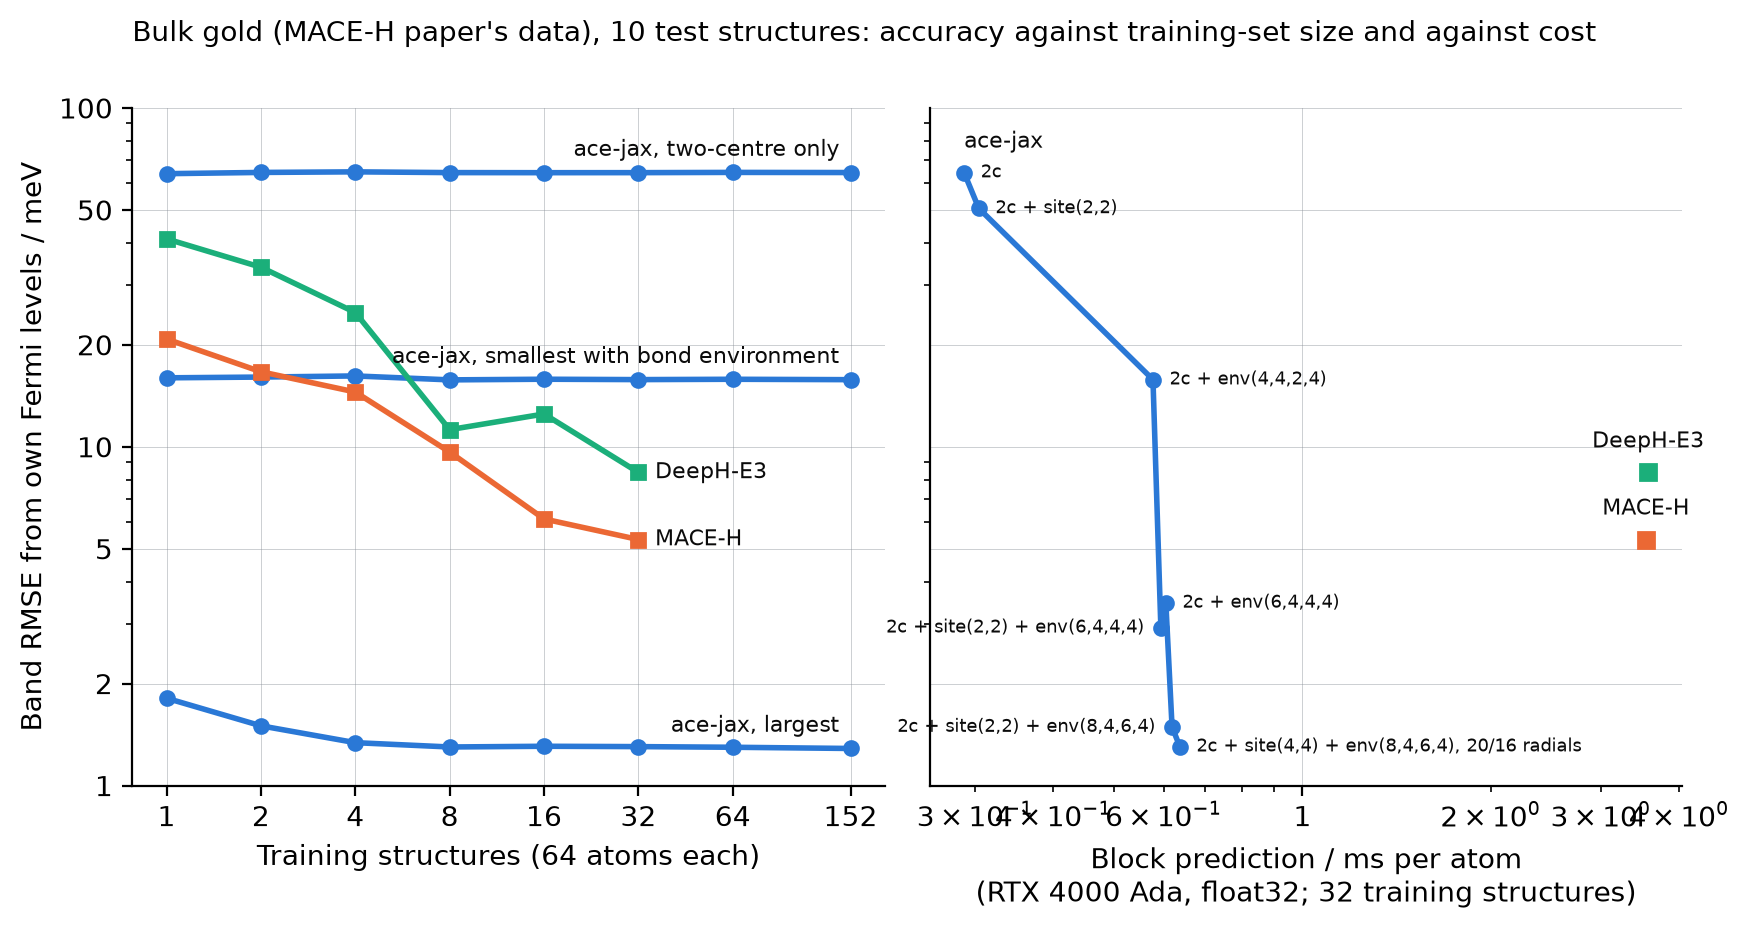
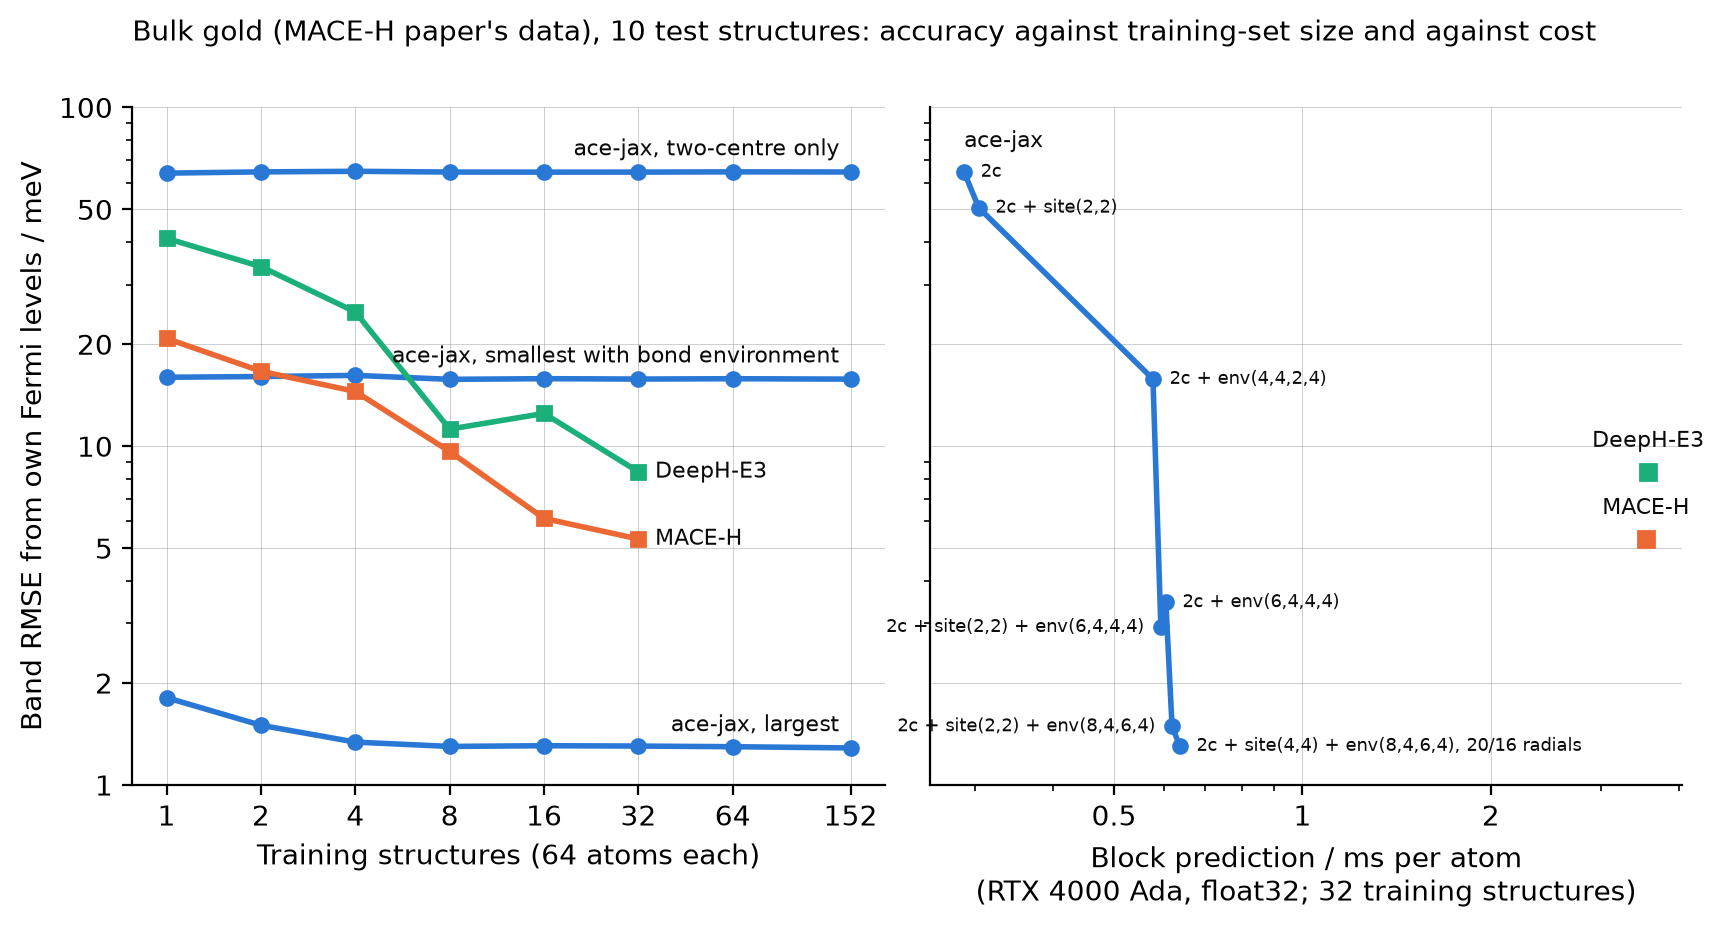
bench(ham): GPU versions of the gold Pareto and size-scaling figures (RTX 4000 Ada, float32)

diff --git a/bench/ham/size_plot.py b/bench/ham/size_plot.py
@@ -44,8 +44,8 @@ a.annotate("eigensolver, one k-point", (N[-1], eig[-1]), xytext=(7, 0), textcoor
 a.plot(N, bloch, color=BLOCH, lw=2, marker="s", ms=5)
 a.annotate("Bloch sums H(k), S(k)", (N[-1], bloch[-1]), xytext=(7, 0), textcoords="offset points", va="center", fontsize=8, color=INK)
 g = np.array([N[0], N[-1]], float)                       # guides through the first points: O(N) and O(N^3)
-a.plot(g, pred["ace-jax"][0] * g / g[0] * 0.5, color=MUTED, lw=0.8, ls=":"); a.annotate("∝ N", (g[1], pred["ace-jax"][0] * g[1] / g[0] * 0.5), xytext=(7, -8), textcoords="offset points", fontsize=7, color=MUTED)
-a.plot(g, eig[0] * (g / g[0]) ** 3 * 0.5, color=MUTED, lw=0.8, ls=":"); a.annotate("∝ N³", (g[1], eig[0] * (g[1] / g[0]) ** 3 * 0.5), xytext=(7, -10), textcoords="offset points", fontsize=7, color=MUTED)
+a.plot(g, pred["ace-jax"][0] * g / g[0] * 0.5, color=MUTED, lw=0.8, ls=":"); a.annotate("∝ N", (g[0], pred["ace-jax"][0] * 0.5), xytext=(4, -10), textcoords="offset points", fontsize=7, color=MUTED)
+a.plot(g, eig[0] * (g / g[0]) ** 3 * 0.5, color=MUTED, lw=0.8, ls=":"); a.annotate("∝ N³", (g[0], eig[0] * 0.5), xytext=(4, -10), textcoords="offset points", fontsize=7, color=MUTED)
 a.set_xscale("log", base=2); a.set_yscale("log"); a.set_xticks(N); a.set_xticklabels([str(n) for n in N])
 a.yaxis.set_major_formatter(FuncFormatter(lambda v, _: f"{v:g}"))
 a.set_xlim(N[0] * 0.85, N[-1] * 2.0); a.set_xlabel("Atoms (9 orbitals each)"); a.set_ylabel("Time per structure / s")

diff --git a/bench/ham/gold_pareto.py b/bench/ham/gold_pareto.py
@@ -78,6 +78,8 @@ b.set_xscale("log"); b.set_xlabel(f"Block prediction / ms per atom\n({T.get('mac
 from matplotlib.ticker import FuncFormatter, NullFormatter
 a.set_yticks([1, 2, 5, 10, 20, 50, 100]); a.yaxis.set_major_formatter(FuncFormatter(lambda v, _: f"{v:g}")); a.yaxis.set_minor_formatter(NullFormatter())
 b.xaxis.set_major_formatter(FuncFormatter(lambda v, _: f"{v:g}"))
+lo_x, hi_x = b.get_xlim()
+b.set_xticks([v for v in (0.1, 0.2, 0.5, 1, 2, 5, 10, 20, 50, 100, 200, 500, 1000) if lo_x <= v <= hi_x]); b.xaxis.set_minor_formatter(NullFormatter())
 lo, hi = a.get_ylim(); a.set_ylim(max(lo, 0.5), hi)
 for ax in (a, b):
     ax.grid(True, which="major", color=MUTED, lw=0.3, alpha=0.5)
